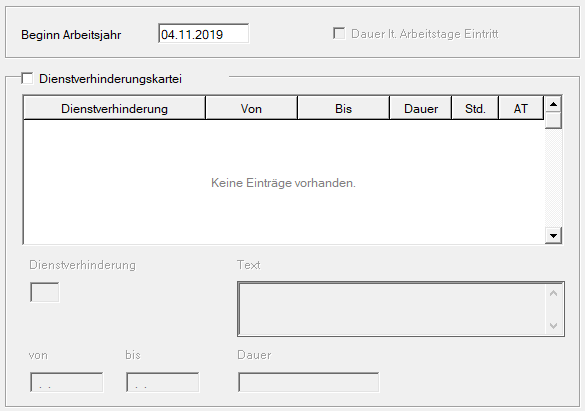
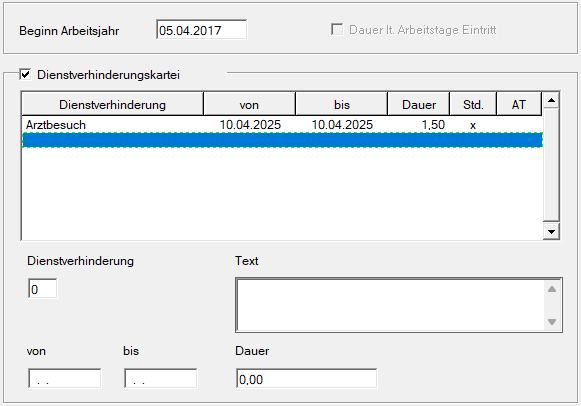
Bearbeitung Abrechnungsbildschirme

Changed region(s): [[0.0, 0.0, 1.0, 1.0], [0.3408, 0.4138, 0.6196, 0.4729]]

diff --git a/docs/LOHN/Abrechnungsbildschirme/Über- und Mehrarbeitsstunden.md b/docs/LOHN/Abrechnungsbildschirme/Über- und Mehrarbeitsstunden.md
@@ -4,9 +4,9 @@
 
 **Pauschale**
 
-Ist eine Überstunden-Pauschale abzurechnen, so ist das Auswahlfeld zu aktivieren und der Betrag des Überstunden-Pauschales einzugeben. Damit das Programm den steuerfreien Zuschlag ermitteln kann, muss entweder der *Überstunden-Teiler* oder der *abweichende Überstunden-Grundlohn* eingetragen werden. Wenn im Feld maximal begünstigte Stunden kein niedrigerer Eintrag erfolgt, werden die Zuschläge gemäß § 68 Abs. 2 für 18 Stunden pro Monat steuerfrei gerechnet (maximal EUR 200,00 pro Monat).
+Ist eine Überstunden-Pauschale abzurechnen, so ist das Auswahlfeld zu aktivieren und der Betrag der Überstunden-Pauschale einzugeben. Damit das Programm den steuerfreien Zuschlag ermitteln kann, muss entweder der *Überstunden-Teiler* oder der *abweichende Überstunden-Grundlohn* eingetragen werden. Wenn im Feld maximal begünstigte Stunden kein niedrigerer Eintrag erfolgt, werden die Zuschläge gemäß § 68 Abs. 2 für 18 Stunden pro Monat steuerfrei gerechnet (maximal EUR 200,00 pro Monat).
 
-Soll **kein** Freibetrag gerechnet werden, dann geben Sie bei *max. beg. h* null ein und machen Sie einen rechten Mausklick und wählen Sie *Explizit 0* aus.
+Soll **kein** Freibetrag gerechnet werden, dann geben Sie bei *max. beg. h* Null ein und machen Sie einen rechten Mausklick und wählen Sie *Explizit 0* aus.
 
 ![Image](<img/image114.png>){width="500"}
 
@@ -28,11 +28,11 @@ Wird dieses Feld aktiviert, bleiben die eingegebenen Überstunden erhalten und b
 
 **Begünstigte Überstunden § 68(2)**
 
-Unter *begünstigte Überstunden § 68(2)* sind die „normalen“ Überstunden einzugeben, die nicht in der Nacht geleistet werden. Vom Programm werden davon automatisch die ersten 10 Überstunden gemäß § 68 (2) EstG88 als steuerfrei (bis maximal EUR 86,00) behandelt.
+Unter *begünstigte Überstunden § 68(2)* sind die „normalen“ Überstunden einzugeben, die nicht in der Nacht geleistet werden. Vom Programm werden davon automatisch die ersten 18 Überstunden gemäß § 68 (2) EstG88 als steuerfrei (bis maximal EUR 200,00) behandelt.
 
 **Begünstigte Überstunden § 68(1)**
 
-Unter den *begünstigten Überstunden § 68(1)* sind jene Überstunden einzugeben, die in der sogenannten Blockzeit (d. h. von 19 Uhr bis 7 Uhr) geleistet werden. Bei diesen Überstunden wird der Überstundenzuschlag gemäß § 68 (1) EStG 1988 bis zu den jeweiligen Höchstgrenzen steuerfrei behandelt.
+Unter den *begünstigten Überstunden § 68(1)* sind jene Überstunden einzugeben, die in der sogenannten Blockzeit (das heißt von 19 Uhr bis 7 Uhr) geleistet werden. Bei diesen Überstunden wird der Überstundenzuschlag gemäß § 68 (1) EStG 1988 bis zu den jeweiligen Höchstgrenzen steuerfrei behandelt.
 
 **Überstunden zu 50 % und 100 %**
 
@@ -60,7 +60,7 @@ Wird als Basis für die Berechnung des Mehrarbeit-Zuschlages nicht der Grundlohn
 
 **Mehrarbeit-Stunden wiederkehrend**
 
-Wird dieses Feld aktiviert, bleiben die eingegebenen Mehrarbeit-Stunden erhalten und brauchen nicht jeden Monat neu eingegeben zu werden. Der Mehrarbeitsgrundlohn, sowie der Mehrarbeitsteiler bleiben immer gleich.
+Wird dieses Feld aktiviert, bleiben die eingegebenen Mehrarbeit-Stunden erhalten und brauchen nicht jeden Monat neu eingegeben zu werden. Der Mehrarbeitsgrundlohn sowie der Mehrarbeitsteiler bleiben immer gleich.
 
 **Mehrarbeit-Stunden zu …**
 
@@ -72,7 +72,7 @@ Wird das Feld *nicht begünstigt gemäß § 68 (2)* angewählt, erfolgt keine be
 
 Wenn eine All-inclusive-Vereinbarung getroffen wurde, können Sie hier den *Gesamtstundenteiler* eintragen.
 
-Wenn im Feld *maximal begünstigte Stunden* kein niedrigerer Eintrag erfolgt, werden die Zuschläge gemäß § 68 Abs. 2 für 18 Stunden pro Monat steuerfrei gerechnet (maximal EUR 200,00 pro Monat). Soll keine Begünstigung § 68 (2) zur Anwendung gelangen, dann geben Sie im Feld *maximal begünstigte Stunden* 0 ein und machen Sie einen rechten Mausklick und wählen Sie *Explizit 0* aus.
+Wenn im Feld *maximal begünstigte Stunden* kein niedrigerer Eintrag erfolgt, werden die Zuschläge gemäß § 68 Abs. 2 für 18 Stunden pro Monat steuerfrei gerechnet (maximal EUR 200,00 pro Monat). Soll keine Begünstigung § 68 (2) zur Anwendung gelangen, dann geben Sie im Feld *maximal begünstigte Stunden* Null ein und machen Sie einen rechten Mausklick und wählen Sie *Explizit 0* aus.
 
 ![Image](<img/image116.png>){width="600"}
 

diff --git a/docs/LOHN/Abrechnungsbildschirme/Freie Lohnarten.md b/docs/LOHN/Abrechnungsbildschirme/Freie Lohnarten.md
@@ -12,9 +12,9 @@ Die Anzahl kann nur bei Lohnarten abgerechnet werden, welche nach Einheiten defi
 
 **Basis**
 
-Die Basis kann nur bei Lohnarten abgerechnet werden, welche nach Einheiten definiert sind. Die Eingabe der Basis (z. B. Stundenlohn, amtliches Kilometergeld, usw.) kann bis zu fünf Kommastellen aufweisen. Es wird vom Programm automatisch der Betrag der Lohnart durch Multiplikation von Anzahl und Basis ermittelt und angezeigt.
+Die Basis kann nur bei Lohnarten abgerechnet werden, welche nach Einheiten definiert sind. Die Eingabe der Basis (z. B. Stundenlohn, amtliches Kilometergeld usw.) kann bis zu fünf Kommastellen aufweisen. Es wird vom Programm automatisch der Betrag der Lohnart durch Multiplikation von Anzahl und Basis ermittelt und angezeigt.
 
-Wenn Sie eine freie Lohnart mit der Basis Null auf der Abrechnung angedruckt haben möchten (z. B. Arztstunden, Urlaubsstunden usw.), dann machen Sie im Feld *Basis* einen rechten Mausklick und wählen *Explizit 0* aus. Somit erscheint bei der Basis ein ***!***.
+Wenn Sie eine freie Lohnart mit der Basis Null auf der Abrechnung angedruckt haben möchten (z.&nbsp;B. Arztstunden, Urlaubsstunden usw.), dann machen Sie im Feld *Basis* einen rechten Mausklick und wählen *Explizit 0* aus. Somit erscheint bei der Basis ein ***!***.
 
 ![Image](<img/image111.png>){width="500"}
 
@@ -28,15 +28,15 @@ Wenn Sie eine freie Lohnart mit dem Betrag Null auf der Abrechnung angedruckt ha
 
 **Abw. Kostenstelle**
 
-Das Feld *abw.* *Kostenstelle* kann angewählt werden, wenn in den Klientenstammdaten Registerblatt *Kostenstellen* das Feld *Einzelzuordnung freier Lohnarten zu Kostenstellen* aktiviert ist. Wird in diesem Feld eine Kostenstelle eingetragen, erfolgt die Zuordnung des Aufwands der freien Lohnart zu 100 % zur eingetragenen Kostenstelle.
+Das Feld *abw.* *Kostenstelle* kann angewählt werden, wenn in den Klientenstammdaten Registerblatt *Kostenstellen* das Feld [*Einzelzuordnung freier Lohnarten zu Kostenstellen*](../Klientenstammdaten/Stammdaten%20Klient/Kostenstellen,%20Kostenträger,%20Krankenstandsbescheinigungen,%20KV.md) aktiviert ist. Wird in diesem Feld eine Kostenstelle eingetragen, erfolgt die Zuordnung des Aufwands der freien Lohnart zu 100 % zur eingetragenen Kostenstelle.
 
 **Abw. Kostenträger**
 
-Das Feld *abw.* *Kostenträger* kann angewählt werden, wenn in den Klientenstammdaten Registerblatt *Kostenträger* das Feld *Einzelzuordnung freier Lohnarten zu Kostenträger* aktiviert ist. Wird in diesem Feld ein Kostenträger eingetragen, erfolgt die Zuordnung des Aufwands der freien Lohnart zu 100 % zum eingetragenen Kostenträger.
+Das Feld *abw.* *Kostenträger* kann angewählt werden, wenn in den Klientenstammdaten Registerblatt *Kostenträger* das Feld [*Einzelzuordnung freier Lohnarten zu Kostenträger*](../Klientenstammdaten/Stammdaten%20Klient/Kostenstellen,%20Kostenträger,%20Krankenstandsbescheinigungen,%20KV.md) aktiviert ist. Wird in diesem Feld ein Kostenträger eingetragen, erfolgt die Zuordnung des Aufwands der freien Lohnart zu 100 % zum eingetragenen Kostenträger.
 
 **Sonstige Behörde**
 
-Hier können Sie die Behörde hinterlegen, welche Sie unter *Stamm / Klient / Registerblatt Sozialfonds, Überw. an Sonstige Behörden* hinterlegt haben. Somit wird dieser Betrag auf der Überweisungsliste angeführt. Mit Anwahl der *F2-Taste* können alle erfassten Behörden angezeigt und ausgewählt werden. Es kann eine *Sonstige Behörde* nur bei einer freien Lohnart mit Lohnartendefinition „*Abzug*“ oder „*Werbungskosten*“ hinterlegt werden.
+Hier können Sie die Behörde hinterlegen, welche Sie unter *Stamm / Klient / Registerblatt [Sozialfonds, Überw. an Sonstige Behörden](../Klientenstammdaten/Stammdaten%20Klient/Sozialfonds,%20Überw.%20an%20Behörden.md)* hinterlegt haben. Somit wird dieser Betrag auf der Überweisungsliste angeführt. Mit Anwahl der *F2-Taste* können alle erfassten Behörden angezeigt und ausgewählt werden. Es kann eine *Sonstige Behörde* nur bei einer freien Lohnart mit Lohnartendefinition „*Abzug*“ oder „*Werbungskosten*“ hinterlegt werden.
 
 !!! info "Tipp"
     Durch Anwahl der *F2-Taste* können die bestehenden Kostenstellen bzw. Kostenträger aufgerufen und übernommen werden. Die *F4-Taste* ermöglicht die Neuanlage von Kostenstellen bzw. Kostenträgern.

diff --git a/docs/LOHN/Abrechnungsbildschirme/Abzüge.md b/docs/LOHN/Abrechnungsbildschirme/Abzüge.md
@@ -1,24 +1,26 @@
 # Abzüge
 
+![image](img/image141.png)
+
 **Vorschuss**
 
 Eingabe eines vom Nettolohn abzuziehenden Vorschusses.
 
 **Sachbezug**
 
-Eingabe des Betrages an Sachbezug (z. B. für freie Station, KFZ-Privatnutzung, usw.), der vom Nettolohn abgezogen wird. Die hier eingegebenen Beträge werden lediglich abgezogen. Ist der Sachbezug nicht im Bruttolohn enthalten, so ist er als eigene freie Lohnart anzulegen, damit die Berücksichtigung bei SV und LSt erfolgen kann.
+Eingabe des Betrages an Sachbezug (z. B. für freie Station, KFZ-Privatnutzung usw.), der vom Nettolohn abgezogen wird. Die hier eingegebenen Beträge werden lediglich abgezogen. Ist der Sachbezug nicht im Bruttolohn enthalten, so ist er als eigene freie Lohnart anzulegen, damit die Berücksichtigung bei SV und LSt erfolgen kann.
 
 !!! warning "Hinweis"
-    Beachtung der Sonderregelung in der Sozialversicherung: Gemäß § 53 ASVG dürfen die dienstnehmerbezogenen SV-Beiträge maximal 20 % seiner Geldbezüge betragen, wird einem Dienstnehmer ein entsprechend hoher Sachbezug in Abzug gebracht, so kann dies Auswirkung auf die dem Dienstnehmer maximal abziehbaren SV-Beiträge haben. Diese Sonderregelung wird vom Programm automatisch berücksichtigt.
+    Beachtung der Sonderregelung in der Sozialversicherung: Gemäß § 53 ASVG dürfen die dienstnehmerbezogenen SV-Beiträge maximal 20 % seiner Geldbezüge betragen, wird einem Dienstnehmer ein entsprechend hoher Sachbezug abgezogen, so kann dies Auswirkung auf die dem Dienstnehmer maximal abziehbaren SV-Beiträge haben. Diese Sonderregelung wird vom Programm automatisch berücksichtigt.
 
 **SV – 20 % Regelung bewirkt Erhöhung …**
 
-Durch Aktivierung dieser Felder erfolgt eine Erhöhung der DB und KommSt-Bemessung um den vom Dienstgeber übernommenen SV-Anteil Dienstnehmer (20 % Regelung).
+Durch Aktivierung dieser Felder erfolgt eine Erhöhung der DB und KommSt-Bemessung um den vom Dienstgeber übernommenen SV-Anteil des Dienstnehmers (20-%-Regelung).
 
 **Gewerkschaftsbeitrag**
 
-Eingabe des Betrages oder Prozentsatzes eines monatlich abzuziehenden Gewerkschaftsbeitrages. Wird hier eine Prozenteingabe vorgenommen, kann ein maximaler Gewerkschaftsbeitrag in den Dienstgeber-Stammdaten festgelegt werden.
+Eingabe des Betrages oder Prozentsatzes eines monatlich abzuziehenden Gewerkschaftsbeitrages. Wird hier eine Prozenteingabe vorgenommen, kann ein maximaler Gewerkschaftsbeitrag in den Dienstgeberstammdaten festgelegt werden.
 
 **Betriebsratsumlage**
 
-Eingabe des Betrages oder Prozentsatzes einer monatlich abzuziehenden Betriebsratsumlage. Wird hier eine Prozenteingabe vorgenommen, kann eine maximale Betriebsratsumlage in den Dienstgeber-Stammdaten festgelegt werden.
+Eingabe des Betrages oder Prozentsatzes einer monatlich abzuziehenden Betriebsratsumlage. Wird hier eine Prozenteingabe vorgenommen, kann eine maximale Betriebsratsumlage in den Dienstgeberstammdaten festgelegt werden.

diff --git a/docs/LOHN/Abrechnungsbildschirme/Zeitausgleich.md b/docs/LOHN/Abrechnungsbildschirme/Zeitausgleich.md
@@ -1,6 +1,6 @@
 # Zeitausgleich
 
-Im oberen Bereich *Zeitausgleich (Rückstellungsberechnung)* werden die Daten für die Zeitausgleichsrückstellung und auf dem Ausdruck der Abrechnungen verwendet. Im unteren Bereich *Zeitausgleich* können die eingetragenen Daten nur auf der Abrechnung angedruckt werden. Die untere Eingabe wird nicht bei der Zeitausgleichsrückstellung berücksichtigt.
+Im oberen Bereich *Zeitausgleich (Rückstellungsberechnung)* werden die Daten für die Zeitausgleichsrückstellung verwendet und auf dem Ausdruck der Abrechnungen angezeigt. Im unteren Bereich *Zeitausgleich* können die eingetragenen Daten nur auf der Abrechnung angedruckt werden. Die untere Eingabe wird nicht bei der Zeitausgleichsrückstellung berücksichtigt.
 
 ![Image](<img/image117.png>)
 
@@ -32,7 +32,7 @@ Hier kann pro Zeitausgleichskartei eingestellt werden, ob diese Kartei bei der Z
 
 Die *Zeitausgleichskartei* wird für die Berechnung der Zeitausgleichsrückstellung verwendet. Die Daten können auch für den Ausdruck der Abrechnungen verwendet werden. Sie haben die Möglichkeit zwischen vier Karteien zu wählen. Die Bezeichnung der Karteien können Sie unter *Stamm / Klient / Registerblatt* [*Details Rückstellungen (4)*](../Rückstellungen/Stammdaten.md) ändern.
 
-Eintragung des Datums der Erfassung (z. B. des Monatsletzten).
+Eintragung des Datums der Erfassung (z. B. Monatsletzter).
 
 Im Feld *Arbeitsstunden* werden die Arbeitsstunden (ohne Zuschlag) eingetragen. Negative Werte werden durch ein Minus vor der Einheit eingetragen.
 
@@ -44,7 +44,7 @@ Im Feld *Saldo* finden Sie die Anzeige des aktuellen Saldos der Rückstellungsst
 
 **Zeitausgleich (wird nicht bei Zeitausgleichsrückstellung berücksichtigt)**
 
-In diesem Bereich können Aufzeichnungen für die Verwaltung des Zeitausgleiches geführt werden. Der Zeitausgleich kann auch bewertet werden. Beim [Ausdruck der Abrechnungen](../Ausdrucke%20allgemein/Ausdruck%20Abrechnungen.md) besteht die Möglichkeit, die Zeitausgleichsverwaltung auf der Abrechnung anzudrucken.
+In diesem Bereich können Aufzeichnungen für die Verwaltung des Zeitausgleiches geführt werden. Der Zeitausgleich kann ebenfalls bewertet werden. Beim [Ausdruck der Abrechnungen](../Ausdrucke%20allgemein/Ausdruck%20Abrechnungen.md) besteht die Möglichkeit, die Zeitausgleichsverwaltung auf der Abrechnung anzudrucken.
 
 Im Feld *Anfangsstand* wird der Anfangsstand des Zeitausgleichs eingetragen. Dieser Anfangsstand kann im Feld *Betrag* bewertet werden. Negative Werte werden durch ein Minus vor der Einheit eingetragen. 
 
@@ -52,4 +52,4 @@ Die *monatliche Veränderung* wird in der nächsten Zeile eingetragen.
 
 Darstellung des *Endsaldos* in der letzten Zeile. Negative Werte werden blinkend dargestellt.
 
-Sie haben die Möglichkeit 2 Zeitausgleichs-Konten zu führen.
+Sie haben die Möglichkeit zwei Zeitausgleichs-Konten zu führen.

diff --git a/docs/LOHN/Abrechnungsbildschirme/Dienstverhinderung.md b/docs/LOHN/Abrechnungsbildschirme/Dienstverhinderung.md
@@ -12,11 +12,11 @@ Wenn Sie **Kanzleilohnarten** verwenden, können Sie die Sonstigen Dienstverhind
 
 ![Image](<img/image120.png>){width="500"}
 
-Hier haben Sie die Möglichkeit Arztbesuche, Behördengänge, die Berufsschulzeiten, die Dienstverhinderungen nach dem Angestelltengesetz bzw. nach dem ABGB zu hinterlegen.
+Hier haben Sie die Möglichkeit, Arztbesuche, Behördengänge, die Berufsschulzeiten sowie die Dienstverhinderungen nach dem Angestelltengesetz bzw. nach dem ABGB zu hinterlegen.
 
 Das Feld *Dauer lt. Arbeitstage Eintritt* hängt mit der Eingabe in der Urlaubskartei zusammen. Wenn das Feld in der Urlaubskartei aktiviert ist, wird es auch automatisch in der Dienstverhinderungskartei aktiviert.
 
-Durch aktivieren der *Dienstverhinderungskartei* können Sie mit Hilfe der *F2-Taste* oder dem rechten Mausklick *Aufruf* in das Feld Dienstverhinderung die Liste von *Stamm / Sonstige Dienstverhinderungen* bzw. *Klient / Kanzlei / Lohnarten, Lohn-Formeln, Sonst. Dienstverh.* aufrufen und die entsprechende Dienstverhinderung auswählen.
+Durch Aktivieren der *Dienstverhinderungskartei* können Sie mit Hilfe der *F2-Taste* oder dem rechten Mausklick *Aufruf* in das Feld *Dienstverhinderung* die Liste von *Stamm / Sonstige Dienstverhinderungen* bzw. *Klient / Kanzlei / Lohnarten, Lohn-Formeln, Sonst. Dienstverh.* aufrufen und die entsprechende Dienstverhinderung auswählen.
 
 ![Image](<img/image121.png>){width="400"}
 
